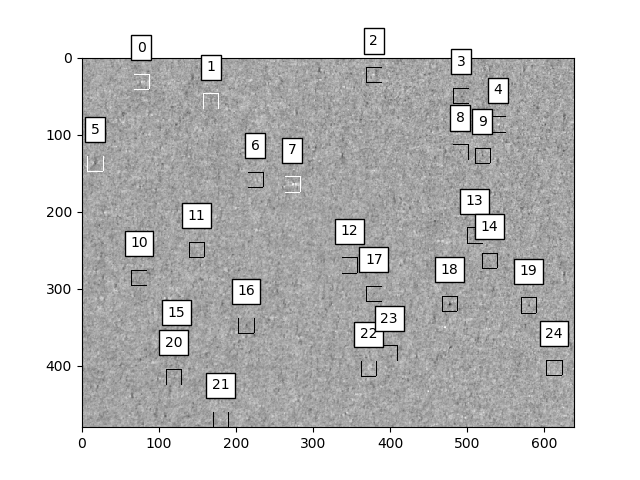
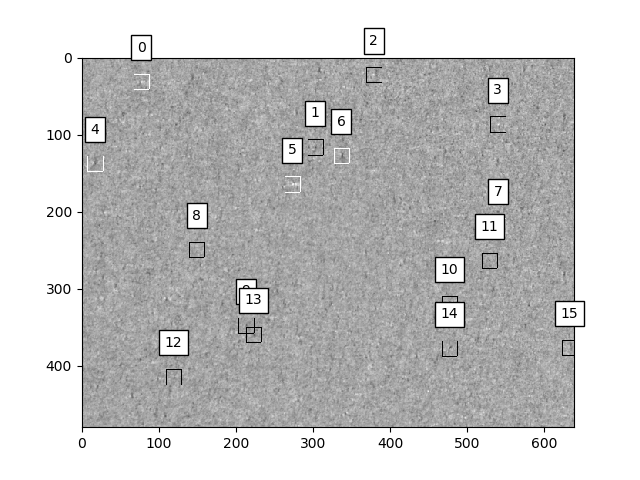
altered bowtie density and added dense gif example

diff --git a/11_apply_clf.py b/11_apply_clf.py
@@ -129,7 +129,7 @@ for i in filenames:
     
     #IF IMAGE DOES PASS SUBDIVIDE IMAGE AND GET LOCATION OF MAX SHEAR MAX
     dx,dy=160,120 #To make 16 images per 5x shear max image
-    dx,dy=128,96
+    #dx,dy=128,96
     subimages=basic.subsub(imgM,xdim,ydim,dx,dy)
 
     #RECORD LOCATIONS OF PEAK RETARDATIONS
